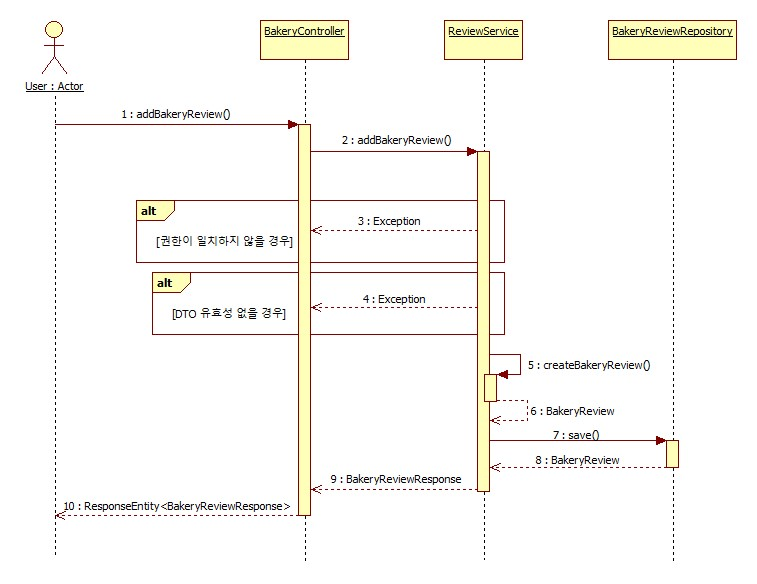
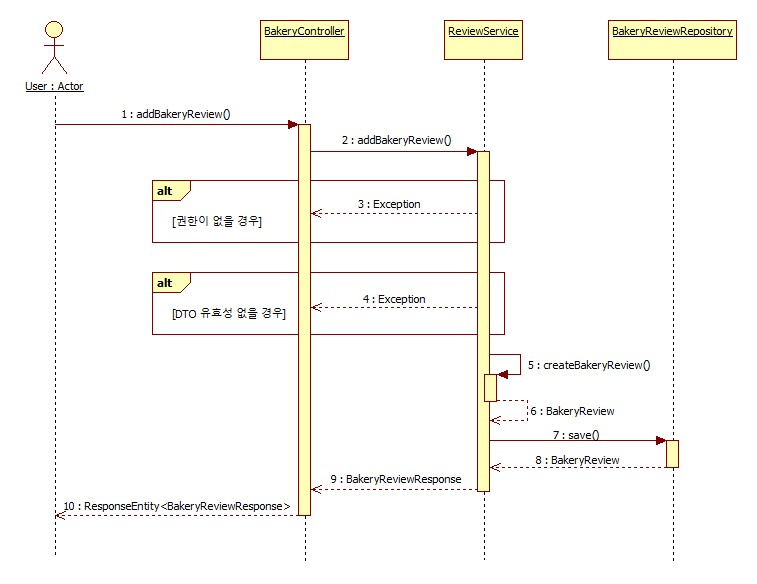
시퀀스 가게 관련 내용 수정

Changed region(s): [[0.1823, 0.3082, 0.395, 0.4315], [0.4557, 0.339, 0.5773, 0.4007]]

diff --git a/SDS/SDS_breadcast_4.Sequence diagram.md b/SDS/SDS_breadcast_4.Sequence diagram.md
@@ -38,7 +38,7 @@
 ![7_BakeryDetailShow](https://github.com/seohyun27/breadcast-docs/blob/main/SDS/images/sequence/7-Bakery-Detail-Show.jpg?raw=true)
 
 - 사용자가 원하는 가게의 자세한 정보를 볼 수 있게 해주는 Use Case를 sequence diagram으로 나타낸 것이다.
-- BakeryController는 요청을 받아서 bakeryId, UserDetailsImpl를 가지고 getBakeryDetail() 메소드를 실행하여 BakeryService를 호출한다.
+- BakeryController는 요청을 받아서 bakeryId, 사용자 정보를 가지고 getBakeryDetail() 메소드를 실행하여 BakeryService를 호출한다.
 - BakeryService는 getBakeryDetail() 메소드를 실행한다.
 - 이 메소드는 bakeryRepository에 있는 findById()를 호출해서 사용자가 원하는 가게의 데이터를 데이터베이스에서 찾아낸다.
 - 만약 해당 가게가 존재하지 않으면 적절한 예외를 발생시켜 처리를 중단한다.
@@ -56,9 +56,9 @@
 ![10_BakeryReviewShow](https://github.com/seohyun27/breadcast-docs/blob/main/SDS/images/sequence/10-Bakery-Review-Show.jpg?raw=true)
 
 - 사용자가 가게 리뷰들을 볼 수 있게 해주는 Use Case를 sequence diagram으로 나타낸 것이다.
-- 요청을 받은 BakeryController가 bakeryId, UserDetailsImpl를 가지고 getBakeryReviews() 메소드를 실행하여 ReviewService를 호출한다.
+- 요청을 받은 BakeryController가 bakeryId, 사용자 정보를 가지고 getBakeryReviews() 메소드를 실행하여 ReviewService를 호출한다.
 - ReviewService는 getBakeryReviews() 메소드를 실행한다.
-- 이 메소드는 bakeryReviewRepository.findAll()를 호출해서 해당 bakeryId에 종속된 모든 BakeryReview 엔티티 리스트를 데이터베이스에서 찾아낸다.
+- 이 메소드는 bakeryReviewRepository.findAll()를 호출해서 해당 빵집에 있는 모든 BakeryReview 엔티티 리스트를 데이터베이스에서 찾아낸다.
 - BakeryReview 엔티티 리스트를 찾아낸 뒤, ReviewService는 조회한 BakeryReview 엔티티들을 BakeryReviewResponse DTO 리스트로 변환시킨다.
 - 그러고 나서 ReviewService가 완성된 BakeryReviewResponse 리스트를 BakeryController에게 전달한다.
 - 이렇게 전달받은 정보를 BakeryController가 최종적으로 사용자에게 넘겨줌으로써 가게 리뷰 목록 조회가 완료된다.
@@ -67,24 +67,26 @@
 ![11_BakeryReviewAdd](https://github.com/seohyun27/breadcast-docs/blob/main/SDS/images/sequence/11-Bakery-Review-Add.jpg?raw=true)
 
 - 사용자가 가게 리뷰를 쓸 수 있게 해주는 Use Case를 sequence diagram으로 나타낸 것이다.
-- 요청을 받은 BakeryController가 bakeryId, UserDetailsImpl, BakeryReviewRequest를 인수로 ReviewService의 addBakeryReview() 메소드를 호출하며 비즈니스 로직을 위임한다.
-- ReviewService는 위임을 받은 후, 비즈니스 로직에 따른 추가적인 유효성 확인한다.
-- 유효성을 통과하지 못하면 예외를 발생시킨다.
-- 그리고 사용자의 권한을 확인하여 권한이 없으면 예외를 발생시킨다. 이를 통과하면, createBakeryReview 메소드를 통해 memId, bakeryId, DTO의 내용을 포함하는 BakeryReview 엔티티를 생성한다.
+- 요청을 받은 BakeryController가 bakeryId, 사용자 정보, DTO를 받아 addBakeryReview() 메소드를 실행해서 ReviewService를 호출한다.
+- ReviewService는 사용자의 권한을 확인하여 권한이 없으면 예외를 발생시킨다.
+- 이를 통과하면, ReviewService는 DTO 유효성 확인하여 유효성이 없면 예외를 발생시킨다.
+- 모든 검증을 만족하면 createBakeryReview 메소드를 통해 DTO의 내용을 포함하는 BakeryReview 엔티티를 생성한다.
 - 생성된 엔티티는 bakeryReviewRepository.save()를 호출하여 데이터베이스에 저장된다.
-- 저장 후, ReviewService는 저장된 BakeryReview 엔티티 정보를 BakeryReviewResponse DTO로 변환시키며, 이 DTO를 BakeryController에게 반환한다.
-- 이렇게 받은 최종 응답을 BakeryController가 사용자에게 넘겨줌으로써 가게 리뷰 작성이 성공적으로 완료된다.
+- 저장 후, ReviewService는 저장된 BakeryReview 엔티티 정보를 BakeryReviewResponse DTO로 변환시킨다.
+- 이 DTO를 BakeryController에게 반환한다.
+- 최종 응답을 BakeryController가 사용자에게 넘겨줌으로써 가게 리뷰 작성이 성공적으로 완료된다.
 
 ## 12) 가게 리뷰 수정하기
 ![12_BakeryReviewUpdate](https://github.com/seohyun27/breadcast-docs/blob/main/SDS/images/sequence/12-Bakery-Review-Update.jpg?raw=true)
 
 - 사용자가 가게 리뷰를 수정할 수 있게 해주는 Use Case를 sequence diagram으로 나타낸 것이다.
-- 요청을 받은 BakeryController가 bakeryId와 reviewId, UserDetailsImpl, BakeryReviewRequest DTO를 가지고 updateBakeryReview() 메소드를 실행하여 ReviewService를 호출한다.
+- 요청을 받은 BakeryController가 bakeryId와 reviewId, 사용자 정보, DTO를 가지고 updateBakeryReview() 메소드를 실행하여 ReviewService를 호출한다.
 - ReviewService는 updateBakeryReview() 메소드를 실행한다.
-- 이 메소드는 먼저 bakeryReviewRepository.findById()를 호출해서 수정할 리뷰 엔티티를 데이터베이스에서 찾아낸다.
+- 이 메소드는 먼저 DTO의 유효성을 검사하고 만족하지 못하면 적절한 예외를 처리한다.
+- bakeryReviewRepository.findById()를 호출해서 수정할 리뷰 엔티티를 데이터베이스에서 찾아낸다.
 - 만약 해당 리뷰가 존재하지 않으면 적절한 예외를 발생시켜 처리를 중단한다.
-- 현재 로그인한 사용자가 해당 리뷰의 작성자인지 확인하여 수정 권한을 검증한다. 만약 아니면 예외를 발생시켜 중단시킨다.
-- 모든 검증을 통과하면 조회된 BakeryReview 엔티티의 update() 메소드를 호출하여 DTO의 새로운 내용으로 엔티티 필드를 수정한다. 이때 JPA의 Dirty Checking이 적용되므로 별도의 save() 호출 없이 변경 사항이 트랜잭션 종료 시점에 데이터베이스에 반영된다.
+- 사용자의 수정 권한을 검증하고 권한이 없으면 예외를 발생시켜 중단시킨다.
+- 모든 검증을 통과하면 조회된 BakeryReview 엔티티의 update() 메소드를 호출하여 DTO의 새로운 내용으로 엔티티 필드를 수정한다.
 - 수정이 끝난 후, ReviewService는 수정된 BakeryReview 엔티티 정보를 BakeryReviewResponse DTO로 변환시키고, 이 DTO를 BakeryController에게 전달한다.
 - 이렇게 전달받은 정보를 BakeryController가 최종적으로 사용자에게 넘겨줌으로써 가게 리뷰 수정이 완료된다.
 
@@ -92,15 +94,14 @@
 ![13_BakeryReviewDelete](https://github.com/seohyun27/breadcast-docs/blob/main/SDS/images/sequence/13-Bakery-Review-Delete.jpg?raw=true)
 
 - 사용자가 가게 리뷰를 삭제할 수 있게 해주는 Use Case를 sequence diagram으로 나타낸 것이다.
-- 요청을 받은 BakeryController는 bakeryId와 reviewId, UserDetailsImpl을 사용하여 bakeryReviewDelete() 메소드를 실행하여 ReviewService를 호출한다.
+- 요청을 받은 BakeryController는 bakeryId와 reviewId, 사용자 정보를 사용하여 bakeryReviewDelete() 메소드를 실행하여 ReviewService를 호출한다.
 - ReviewService는 deleteBakeryReview() 메소드를 실행한다.
-- 이 메소드는 먼저 bakeryReviewRepository.findById()를 호출해서 삭제할 리뷰 엔티티가 데이터베이스에 존재하는지 확인한다.
-- 만약 해당 리뷰가 존재하지 않으면 적절한 예외를 발생시켜 처리를 중단한다.
-- 그리고 나서 현재 로그인한 사용자가 해당 리뷰의 작성자인지 확인하여 삭제 권한을 검증한다.
-- 만약 아니면 예외를 발생시켜 중단시킨다.
+- 먼저 bakeryReviewRepository.findById()를 호출해서 삭제할 리뷰 엔티티가 데이터베이스에 존재하는지 확인한다.
+- 만약 해당 리뷰가 존재하지 않으면 적절한 예외를 발생시켜 처리한다.
+- 사용자가 삭제 권한이 있는지 검증하고 권한이 없으면 예외를 발생시켜 처리한다.
 - 권한이 있고 리뷰 엔티티도 존재한다면 ReviewService는 bakeryReviewRepository.deleteById()를 호출하여 해당 엔티티를 데이터베이스에서 삭제한다.
 - 삭제 작업이 성공적으로 끝나면 ReviewService는 void를 반환하며 BakeryController에게 성공을 알린다.
-- 이렇게 전달받은 정보를 BakeryController가 최종적으로 ResponseEntity<Void>를 사용자에게 넘겨줌으로써 가게 리뷰 삭제가 완료된다.
+- BakeryController가 최종적으로 ResponseEntity<Void>를 사용자에게 넘겨줌으로써 가게 리뷰 삭제가 완료된다.
 
 ## 14) 가게 메뉴 목록 보기
 ![14_MenuListShow](https://github.com/seohyun27/breadcast-docs/blob/main/SDS/images/sequence/14-Menu-List-Show.jpg?raw=true)
